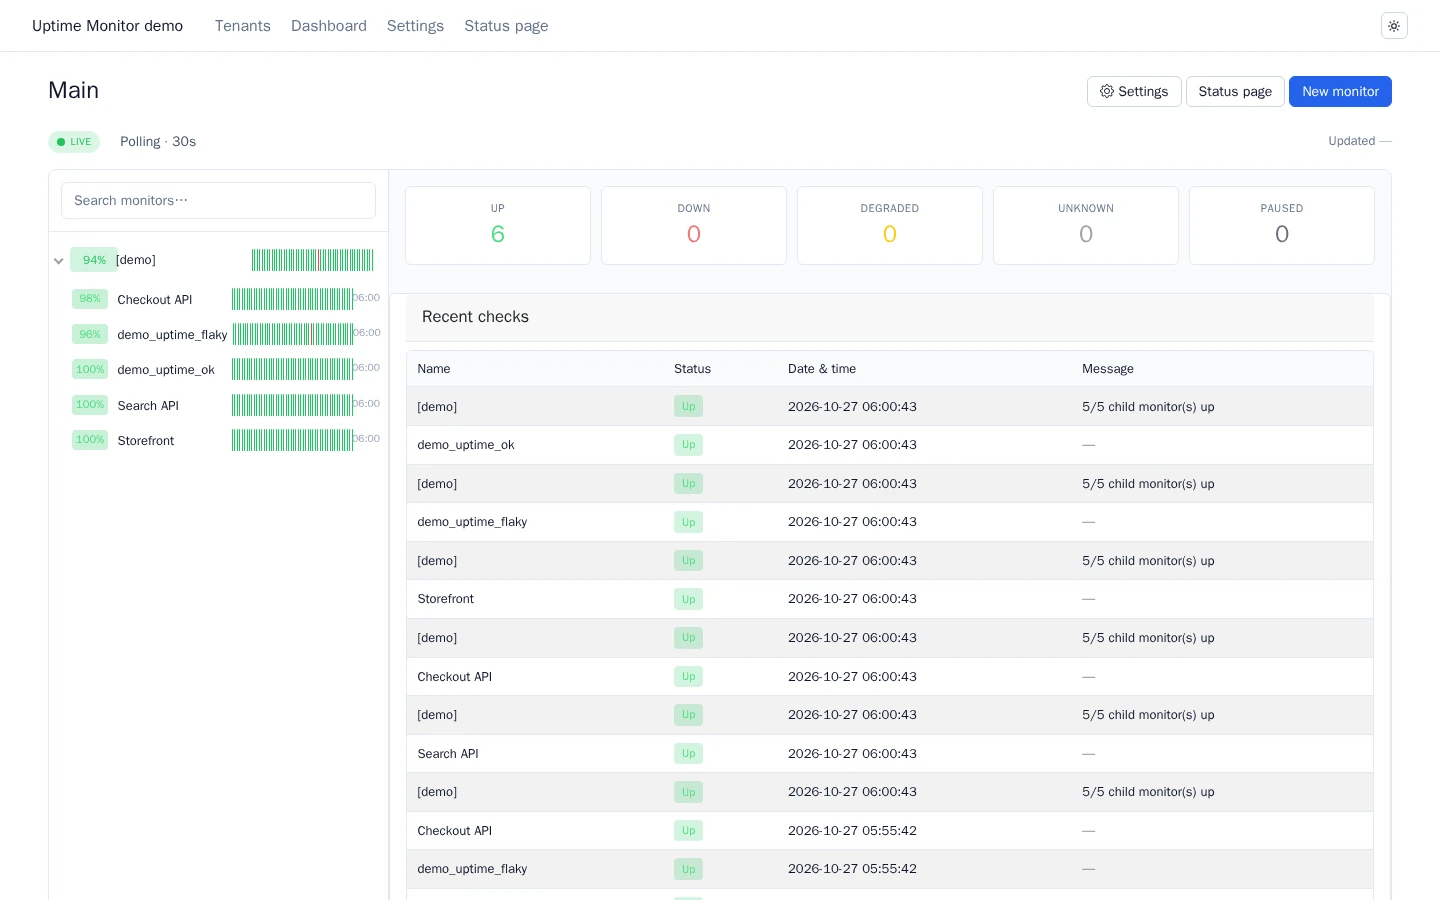
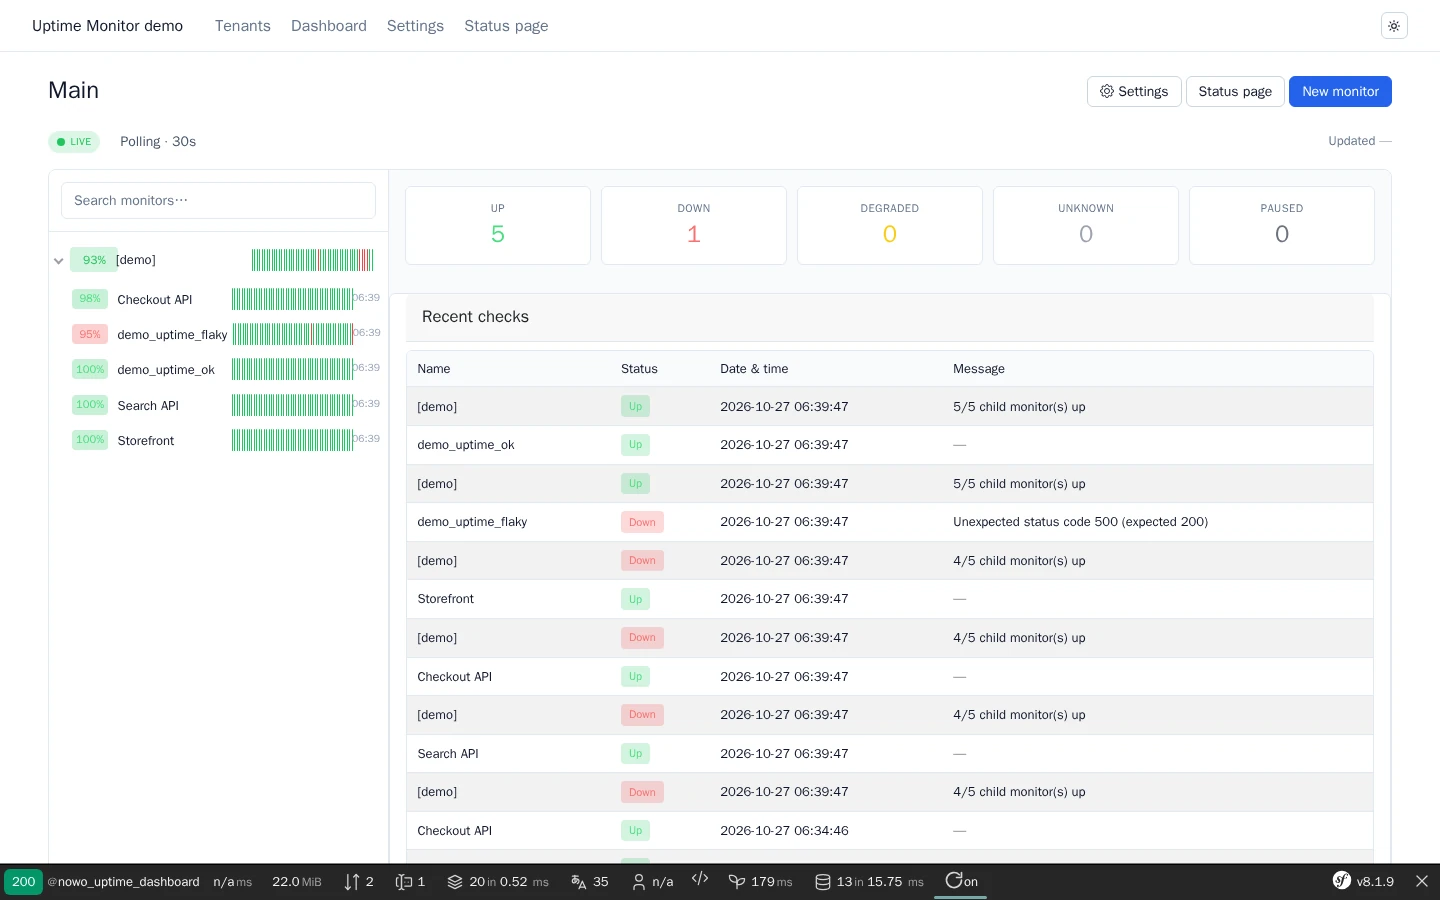
chore: final polish — demo screenshots with the WebProfiler, PHPDoc gate fix, Spec Kit inventory, deps
- REQ-DEMO-013: screenshots frame masthead, bundle UI and the Symfony web debug
  toolbar again (light theme); docs/images/demo/*.webp refreshed
- REQ-CS-001: complete-public-phpdoc.php takes any token after `function` as the
  method name (`function new` is T_NEW); PHPDoc on MonitorController::new() and
  TenantController::new()
- REQ-SPECKIT-001/003: code inventory maps all 184 production files, new FR ids
  in spec.md, audit date 2026-10-27
- README: Symfony 8 demo only, 7 translation locales
- composer.lock: ui-kit-bundle 2.15.3, form-kit-bundle 2.13.3, doctrine-bundle
  2.19.2, inflector 2.1.1, html5 2.12.0, rector 2.8.1, phpstan 2.3.2,
  phpstan-symfony 2.1.1

diff --git a/demo/symfony8/e2e/tests/screenshots.spec.ts b/demo/symfony8/e2e/tests/screenshots.spec.ts
@@ -4,8 +4,8 @@ import { resolve } from 'node:path';
 import { OUTAGE_MONITOR, openDashboard } from './helpers';
 
 /**
- * REQ-DEMO-013 — README screenshots in full demo context: app masthead + bundle UI (UiKit page scaffolds, light
- * theme; the Symfony web debug toolbar is hidden), with the seeded monitors and 24 h of backfilled history (`make demo-screenshots` reseeds first).
+ * REQ-DEMO-013 — README screenshots in full demo context: app masthead + bundle UI + Symfony web debug
+ * toolbar (light theme), with the seeded monitors and 24 h of backfilled history (`make demo-screenshots` reseeds first).
  * Captured as PNG; `make demo-screenshots` converts them to WebP and deletes the PNGs.
  */
 test.describe.configure({ mode: 'serial' });
@@ -18,14 +18,17 @@ const WIDTH = 1440;
 const HEIGHT = 900;
 
 /**
- * Captures the viewport (masthead → bundle UI) in the light theme with the Symfony web debug toolbar hidden. When
- * `until` is given, the viewport grows so that element is fully visible.
+ * Captures the viewport (masthead → bundle UI → fixed web debug toolbar) once the toolbar is rendered.
+ * When `until` is given, the viewport grows so that element is fully visible above the toolbar.
  */
 async function captureDemoFrame(page: Page, file: string, until?: Locator): Promise<void> {
-  await page.addStyleTag({ content: '.sf-toolbar, .sf-minitoolbar, .sf-toolbar-clearer { display: none !important; }' });
+  const toolbar = page.locator('.sf-toolbar .sf-toolbarreset');
+  await expect(toolbar).toBeVisible();
   if (until) {
     const bottom = await until.evaluate((el) => el.getBoundingClientRect().bottom + window.scrollY);
-    await page.setViewportSize({ width: WIDTH, height: Math.max(HEIGHT, Math.ceil(bottom + 32)) });
+    const toolbarHeight = (await toolbar.boundingBox())?.height ?? 40;
+    await page.setViewportSize({ width: WIDTH, height: Math.max(HEIGHT, Math.ceil(bottom + 32 + toolbarHeight)) });
+    await expect(toolbar).toBeVisible();
   }
   // Let Chart.js / heartbeat bars finish their entry animation.
   await page.evaluate(() => new Promise((done) => requestAnimationFrame(() => setTimeout(done, 1200))));

diff --git a/.scripts/complete-public-phpdoc.php b/.scripts/complete-public-phpdoc.php
@@ -42,7 +42,16 @@ foreach (new RecursiveIteratorIterator(new RecursiveDirectoryIterator($srcDir)) 
         while ($next < $count && is_array($tokens[$next]) && $tokens[$next][0] === T_WHITESPACE) {
             ++$next;
         }
-        if ($next >= $count || !is_array($tokens[$next]) || $tokens[$next][0] !== T_STRING) {
+        if ($kind === T_FUNCTION && $next < $count && $tokens[$next] === '&') {
+            // Function returning by reference: `function &name()`.
+            ++$next;
+            while ($next < $count && is_array($tokens[$next]) && $tokens[$next][0] === T_WHITESPACE) {
+                ++$next;
+            }
+        }
+        // A method name may be a reserved word (`function new()` tokenizes as T_NEW): for functions any token after
+        // T_FUNCTION is the name; a closure is followed by `(`, not by a token array.
+        if ($next >= $count || !is_array($tokens[$next]) || ($kind !== T_FUNCTION && $tokens[$next][0] !== T_STRING)) {
             continue;
         }
         $name = $tokens[$next][1];

diff --git a/src/Controller/MonitorController.php b/src/Controller/MonitorController.php
@@ -98,6 +98,14 @@ final class MonitorController extends AbstractUptimeController
         ]));
     }
 
+    /**
+     * Shows and saves the new-monitor form; with `X-Uptime-Modal: 1` it renders the dialog body and answers JSON on success.
+     *
+     * @param string $tenantSlug Tenant slug from the route
+     * @param Request $request Current request (form submission)
+     *
+     * @throws NotFoundHttpException When the tenant does not exist
+     */
     #[Route('/new', name: 'new', methods: ['GET', 'POST'])]
     public function new(string $tenantSlug, Request $request): Response
     {

diff --git a/src/Controller/TenantController.php b/src/Controller/TenantController.php
@@ -83,6 +83,11 @@ final class TenantController extends AbstractController
         ]));
     }
 
+    /**
+     * Shows and saves the new-tenant form; redirects to the new tenant's dashboard on success.
+     *
+     * @param Request $request Current request (form submission)
+     */
     #[Route('/new', name: 'new', methods: ['GET', 'POST'])]
     public function new(Request $request): Response
     {

diff --git a/specs/001-baseline/code-inventory.md b/specs/001-baseline/code-inventory.md
@@ -2,7 +2,7 @@
 
 **Baseline spec**: [`spec.md`](spec.md)  
 **Package**: `nowo-tech/uptime-monitor-bundle`  
-**Last audited**: 2026-10-20
+**Last audited**: 2026-10-27
 
 This file proves that **every production source artifact** under `src/` is referenced by the baseline specification. Test-only files under `tests/` and `*.test.ts` under `src/` are out of Packagist scope. Built assets under `Resources/public/` are documented as Vite/build outputs.
 
@@ -32,6 +32,9 @@ This file proves that **every production source artifact** under `src/` is refer
 | Source file | Spec section | Requirement IDs |
 | --- | --- | --- |
 | `Check/CheckRunnerInterface.php` | Check runner contract | FR-CHECK-001 |
+| `Check/Network/SocketConnection.php` | Open socket of a TCP / SSL probe (read, write, close) | FR-CHECK-006 |
+| `Check/Network/SocketConnectorInterface.php` | Socket connector contract (TCP / SSL checks, test seam) | FR-CHECK-006 |
+| `Check/Network/StreamSocketConnector.php` | `stream_socket_client` connector with deadline | FR-CHECK-006 |
 | `Check/DnsCheckRunner.php` | Dns check runner | FR-CHECK-004 |
 | `Check/GroupCheckRunner.php` | Group check runner | FR-CHECK-004 |
 | `Check/HttpCheckRunner.php` | Http check runner | FR-CHECK-004 |
@@ -87,6 +90,8 @@ This file proves that **every production source artifact** under `src/` is refer
 | Source file | Spec section | Requirement IDs |
 | --- | --- | --- |
 | `Form/AbstractUptimeFormType.php` | Symfony form type | FR-FORM-001 |
+| `Form/BackupImportFormType.php` | Backup import form (multipart file + import mode) | FR-FORM-001 |
+| `Form/CsrfActionFormType.php` | CSRF-only action form (purge, clear statistics, delete tag) | FR-FORM-003 |
 | `Form/Model/MonitorFormData.php` | Form DTO | FR-FORM-002 |
 | `Form/Model/SettingsAppearanceData.php` | Form DTO | FR-FORM-002 |
 | `Form/Model/SettingsGeneralData.php` | Form DTO | FR-FORM-002 |
@@ -94,6 +99,7 @@ This file proves that **every production source artifact** under `src/` is refer
 | `Form/Model/SettingsReverseProxyData.php` | Form DTO | FR-FORM-002 |
 | `Form/Model/TagFormData.php` | Form DTO | FR-FORM-002 |
 | `Form/MonitorFormType.php` | Symfony form type | FR-FORM-001 |
+| `Form/MonitorSearchFormType.php` | Client-side monitor search field of the dashboard | FR-FORM-001 |
 | `Form/SettingsAppearanceFormType.php` | Symfony form type | FR-FORM-001 |
 | `Form/SettingsGeneralFormType.php` | Symfony form type | FR-FORM-001 |
 | `Form/SettingsHistoryFormType.php` | Symfony form type | FR-FORM-001 |
@@ -137,9 +143,6 @@ This file proves that **every production source artifact** under `src/` is refer
 | `Service/TenantSettingsMapper.php` | Tenant settings mapping | FR-TENANT-003 |
 | `Service/UptimeMetricsService.php` | Prometheus-style metrics | FR-METRICS-001 |
 | `Translation/UptimeTranslation.php` | Translation helper | FR-I18N-003 |
-| `Ui/UiFramework.php` | UI framework selector (deprecated: pages follow nowo_ui_kit.css_framework) | FR-UI-002 |
-| `Ui/UptimePages.php` | UiKit page contract plumbing: layout, per-page templates, form themes (REQ-UI-003) | FR-UI-002 |
-| `Ui/UptimeAreaNav.php` | UiKit area-nav provider (tenant + settings navigation) | FR-UI-002 |
 
 ## Notifications
 
@@ -157,6 +160,7 @@ This file proves that **every production source artifact** under `src/` is refer
 | --- | --- | --- |
 | `Security/AllowAllUptimeMonitorAccessChecker.php` | Permissive checker when `security.allow_unauthenticated` is true (demo/dev only) | FR-SEC-001 |
 | `Security/ConfigurableUptimeMonitorAccessChecker.php` | Configurable access checker | FR-SEC-001 |
+| `Security/TenantAwareUptimeMonitorAccessCheckerInterface.php` | Per-tenant access decisions for host-owned tenants | FR-SEC-002 |
 | `EventSubscriber/UptimeMonitorAccessSubscriber.php` | Enforces the access checker on admin/manage controllers (public status page excluded) | FR-SEC-001 |
 | `Security/MonitorUrlSsrfGuard.php` | URL/HTML policy | FR-SEC-004 |
 | `Security/UptimeMonitorAccessCheckerInterface.php` | Access checker contract | FR-SEC-001 |
@@ -197,6 +201,30 @@ This file proves that **every production source artifact** under `src/` is refer
 | `Monitor/StatusCodeMatcher.php` | Monitor settings helper | FR-MON-005 |
 | `Monitor/TenantSettings.php` | Monitor settings helper | FR-MON-005 |
 
+## Events
+
+| Source file | Spec section | Requirement IDs |
+| --- | --- | --- |
+| `Event/MonitorRecoveredEvent.php` | Dispatched when an incident resolves | FR-EVENT-001 |
+| `Event/MonitorWentDownEvent.php` | Dispatched when an incident opens | FR-EVENT-001 |
+
+## Routing & tenants
+
+| Source file | Spec section | Requirement IDs |
+| --- | --- | --- |
+| `Routing/TenantPathUrlGenerator.php` | Router decorator: tenant links to the `web_ui.tenant_paths` copy of a slug | FR-ROUTE-002 |
+| `Routing/TenantPaths.php` | Tenant path matching (slug prefix → route copy) | FR-ROUTE-002 |
+| `Routing/UptimeMonitorRouteLoader.php` | Route import `type: nowo_uptime_monitor` (prefix with `{tenantSlug}`, tenant path copies) | FR-ROUTE-001 |
+| `Service/TenantProvisioner.php` | Host-owned tenants: ensure / enable / disable | FR-TENANT-001 |
+
+## UI page contract
+
+| Source file | Spec section | Requirement IDs |
+| --- | --- | --- |
+| `Ui/UiFramework.php` | UI framework selector (deprecated: pages follow nowo_ui_kit.css_framework) | FR-UI-003 |
+| `Ui/UptimePages.php` | UiKit page contract plumbing: layout, per-page templates, form themes (REQ-UI-003) | FR-UI-003 |
+| `Ui/UptimeAreaNav.php` | UiKit area-nav provider (tenant + settings navigation) | FR-UI-004 |
+
 ## Frontend TypeScript
 
 | Source file | Spec section | Requirement IDs |
@@ -205,7 +233,7 @@ This file proves that **every production source artifact** under `src/` is refer
 | `Resources/assets/src/uptime-dashboard.ts` | Dashboard entrypoint | FR-UI-010 |
 | `Resources/assets/src/uptime-logger.ts` | Frontend logger | FR-UI-012 |
 | `Resources/assets/src/vite-env.d.ts` | Vite type shims | FR-BUILD-002 |
-| `Resources/public/assets/monitor-form-modal-CDzwPBdm.js` | Built frontend asset (hashed Vite chunk) | FR-BUILD-001 |
+| `Resources/public/assets/monitor-form-modal-BbppAcOg.js` | Built frontend asset (hashed Vite chunk) | FR-BUILD-001 |
 | `Resources/public/auto.css` | Built frontend asset | FR-BUILD-001 |
 | `Resources/public/history-bar.css` | Built frontend asset | FR-BUILD-001 |
 | `Resources/public/uptime-dashboard.css` | Built frontend asset | FR-BUILD-001 |
@@ -288,25 +316,28 @@ This file proves that **every production source artifact** under `src/` is refer
 | --- | ---: | ---: |
 | Bundle & DI | 4 | 4 |
 | CLI | 7 | 7 |
-| Check runners | 10 | 10 |
+| Check runners | 13 | 13 |
 | Controllers | 8 | 8 |
 | REST API | 3 | 3 |
 | Persistence | 14 | 14 |
-| Forms | 15 | 15 |
+| Forms | 18 | 18 |
 | Domain models | 4 | 4 |
-| Application services | 23 | 23 |
+| Application services | 22 | 22 |
 | Notifications | 5 | 5 |
-| Security | 6 | 6 |
+| Security | 7 | 7 |
 | Twig PHP | 1 | 1 |
 | Persistence integration | 2 | 2 |
 | Async messaging | 2 | 2 |
 | Scheduler | 1 | 1 |
 | Monitor helpers | 4 | 4 |
-| Frontend TypeScript | 13 | 13 |
-| SCSS themes | 13 | 13 |
+| Events | 2 | 2 |
+| Routing & tenants | 4 | 4 |
+| UI page contract | 3 | 3 |
+| Frontend TypeScript | 11 | 11 |
+| SCSS themes | 12 | 12 |
 | Symfony config | 2 | 2 |
 | Translations | 7 | 7 |
-| Twig views | 31 | 31 |
-| **Total production sources** | **175** | **175** |
+| Twig views | 28 | 28 |
+| **Total production sources** | **184** | **184** |
 
-Audit: `find src -type f ! -path '*/assets/dist/*' ! -name '*.test.ts' | wc -l` → **180** (2026-10-20; co-located `*.test.ts` excluded).
+Audit: `find src -type f ! -path '*/assets/dist/*' ! -name '*.test.ts' | wc -l` → **184** (2026-10-27; co-located `*.test.ts` excluded).

diff --git a/specs/001-baseline/spec.md b/specs/001-baseline/spec.md
@@ -80,6 +80,8 @@ As an operator, I manage appearance, history, reverse-proxy, tags, and JSON back
 - **FR-CHECK-004**: Type-specific runners (HTTP, TCP, DNS, SSL, Ping, Group) with SSRF guard on URLs.
 - **FR-CHECK-002 / FR-CHECK-003**: Orchestrated execution and due-check scheduling (CLI, Messenger, Schedule).
 - **FR-CHECK-005**: Status transitions, incident lifecycle, retry policy via `MonitorRetryService`.
+- **FR-CHECK-006**: TCP / SSL probes open sockets through `Check\Network\SocketConnectorInterface` (stream socket with a deadline).
+- **FR-EVENT-001**: `MonitorWentDownEvent` / `MonitorRecoveredEvent` dispatched when an incident opens / resolves.
 
 ### Dashboard & API
 
@@ -98,15 +100,24 @@ As an operator, I manage appearance, history, reverse-proxy, tags, and JSON back
 
 - **FR-NOTIF-001–004**: Pluggable notification channels (email, webhook) and alert dispatch.
 - **FR-SEC-001**: Configurable dashboard access checker.
+- **FR-SEC-002**: Tenant-aware access checker (`TenantAwareUptimeMonitorAccessCheckerInterface`) decides every route with `{tenantSlug}`.
 - **FR-SEC-004**: `MonitorUrlSsrfGuard` blocks private/reserved targets for HTTP checks.
 - **FR-WORKER-001**: Under FrankenPHP workers without kernel reset, a closed EntityManager is replaced before a bundle route runs (`ClosedEntityManagerSubscriber`); see [`docs/FRANKENPHP-WORKER-AUDIT.md`](../../docs/FRANKENPHP-WORKER-AUDIT.md).
 
 ### UI & i18n
 
-- **FR-FORM-001 / FR-FORM-002**: Monitor, tenant, tag, and settings form types with DTO models.
+- **FR-FORM-001 / FR-FORM-002**: Monitor, tenant, tag, settings, backup import and monitor search form types with DTO models.
+- **FR-FORM-003**: CSRF-only action form (`CsrfActionFormType`) for destructive POST actions.
+- **FR-UI-003 / FR-UI-004**: UiKit page contract (`UptimePages`: layout, per-page templates, form themes) and area navigation provider (`UptimeAreaNav`).
 - **FR-VIEW-001–011**: Twig dashboard, monitor, settings, status, and shared partials; SCSS themes (Bootstrap/Tailwind/Kuma).
 - **FR-UI-010–012**: Vite TypeScript dashboard modules; built assets under `Resources/public/`.
 - **FR-I18N-003 / FR-I18N-004**: Translation helper and seven locale YAML files (`NowoUptimeMonitorBundle.<locale>.yaml`, constraint messages included — no `validators` catalogue).
+
+### Routing & tenants
+
+- **FR-ROUTE-001**: Route import `type: nowo_uptime_monitor` with the admin prefix (`web_ui.path_prefix`, may hold `{tenantSlug}`).
+- **FR-ROUTE-002**: `web_ui.tenant_paths` copies of the tenant routes per slug prefix; `TenantPathUrlGenerator` (router decorator) links a slug to its copy.
+- **FR-TENANT-001**: `TenantProvisioner` creates / enables / disables host-owned tenants.
 
 ### CLI
 
@@ -125,7 +136,7 @@ As an operator, I manage appearance, history, reverse-proxy, tags, and JSON back
 
 ## Success Criteria
 
-- **SC-001**: 100% of production files in `src/` appear in [`code-inventory.md`](code-inventory.md) with requirement IDs (180/180 mapped, audited 2026-10-20).
+- **SC-001**: 100% of production files in `src/` appear in [`code-inventory.md`](code-inventory.md) with requirement IDs (184/184 mapped, audited 2026-10-27).
 - **SC-002**: Configuration keys in `docs/CONFIGURATION.md` match `Configuration.php`.
 - **SC-003**: `composer qa` / `make release-check` pass in CI (PHPUnit, PHPStan, Vitest where applicable).
 - **SC-004**: No Packagist-visible behavior change without spec, inventory, and test updates.

diff --git a/docs/CHANGELOG.md b/docs/CHANGELOG.md
@@ -85,6 +85,15 @@ The format is based on [Keep a Changelog](https://keepachangelog.com/en/1.0.0/).
 
 ### Changed
 
+- Demo README screenshots (REQ-DEMO-013): the full demo frame again — masthead, bundle UI and the Symfony web debug
+  toolbar (light theme); `docs/images/demo/*.webp` refreshed.
+- Root dependencies (lock, semver-safe): `nowo-tech/ui-kit-bundle` 2.15.3, `nowo-tech/form-kit-bundle` 2.13.3,
+  `doctrine/doctrine-bundle` 2.19.2, `doctrine/inflector`, `masterminds/html5`; dev: `rector/rector` 2.8.1,
+  `phpstan/phpstan` 2.3.2, `phpstan/phpstan-symfony` 2.1.1.
+- Spec Kit baseline (REQ-SPECKIT-001/003): `specs/001-baseline/code-inventory.md` maps all 184 production files
+  (socket connector, events, routing / tenant paths, form types, tenant provisioner, UI page contract); new
+  `FR-CHECK-006`, `FR-EVENT-001`, `FR-SEC-002`, `FR-FORM-003`, `FR-UI-003/004`, `FR-ROUTE-001/002`, `FR-TENANT-001`.
+- README: the demo is Symfony 8 only; translations ship 7 locales.
 - **UiKit page contract (REQ-UI-003, REQ-UI-001)**: every admin page now extends a UiKit 2.15 page scaffold fed by
   UiKit view models built in the controllers — tenants (`page/list`), new tenant and monitor create / edit
   (`page/form`), dashboard (`page/dashboard`), monitor detail (`page/show`) and the eight settings screens
@@ -137,6 +146,9 @@ The format is based on [Keep a Changelog](https://keepachangelog.com/en/1.0.0/).
 
 ### Fixed
 
+- `make validate-phpdoc` (REQ-CS-001) missed methods named after a reserved word (`function new()` tokenizes as
+  `T_NEW`): any token after `function` is now the method name. `MonitorController::new()` and
+  `TenantController::new()` got their PHPDoc.
 - Demo: `checks.block_private_urls: false` in the demo config so the local probe monitors (`http://php/demo/uptime/*` over the Compose network) are not blocked by the SSRF guard and report Down.
 - **SSL check**: a peer certificate that cannot be parsed now reports "Could not parse certificate" directly (the
   intermediate PEM export step and its unreachable error are gone).

diff --git a/README.md b/README.md
@@ -42,7 +42,7 @@ Captured from the Symfony 8 demo (seeded monitors + 24 h of history) by Playwrig
 - ✅ Public status page per tenant (`/status/{tenantSlug}`)
 - ✅ Email, webhook, Slack notifications (on status change)
 - ✅ CRUD for monitors and tenants (Twig UI)
-- ✅ Demo Symfony 7 and 8 (FrankenPHP) — see [docs/DEMO-FRANKENPHP.md](docs/DEMO-FRANKENPHP.md)
+- ✅ Symfony 8 demo (FrankenPHP) — see [docs/DEMO-FRANKENPHP.md](docs/DEMO-FRANKENPHP.md)
 - ✅ Mercure real-time dashboard sync (`dashboard.sync: mercure`)
 
 ## Quick start
@@ -107,7 +107,7 @@ make demo-screenshots   # reseeds the demo and refreshes docs/images/demo/*.webp
 - [Check types](docs/CHECK-TYPES.md)
 - [Monitor configuration (Uptime Kuma parity)](docs/MONITOR-CONFIGURATION.md)
 - [Tenant settings (Uptime Kuma parity)](docs/SETTINGS.md)
-- [Translations (en, es)](docs/TRANSLATIONS.md)
+- [Translations (en, es, fr, it, pt, de, nl)](docs/TRANSLATIONS.md)
 - [Notifications](docs/NOTIFICATIONS.md)
 - [Mercure real-time sync](docs/MERCURE.md)
 - [Demo with FrankenPHP](docs/DEMO-FRANKENPHP.md)
